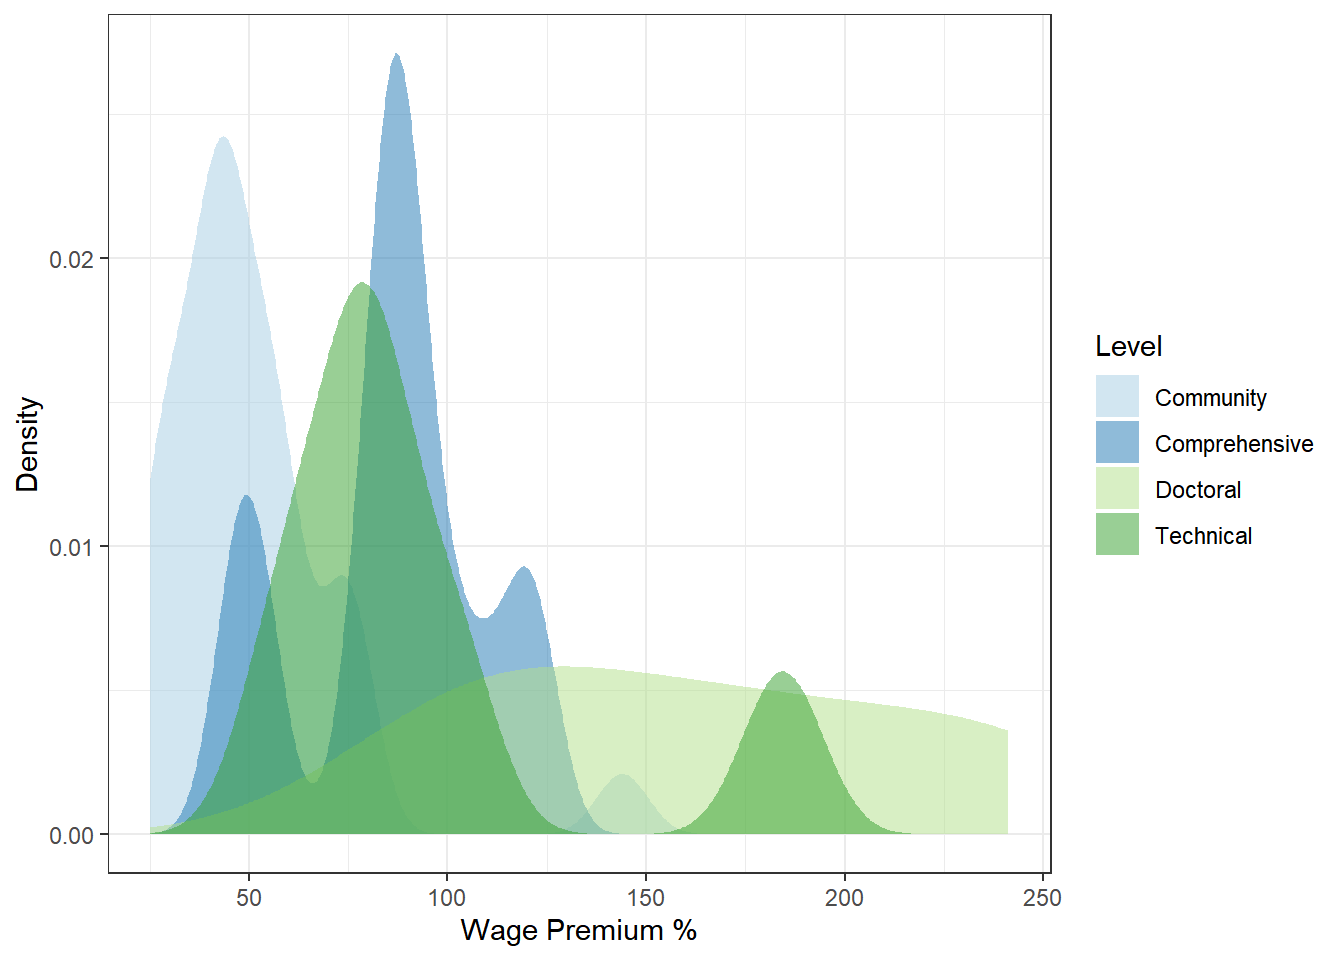
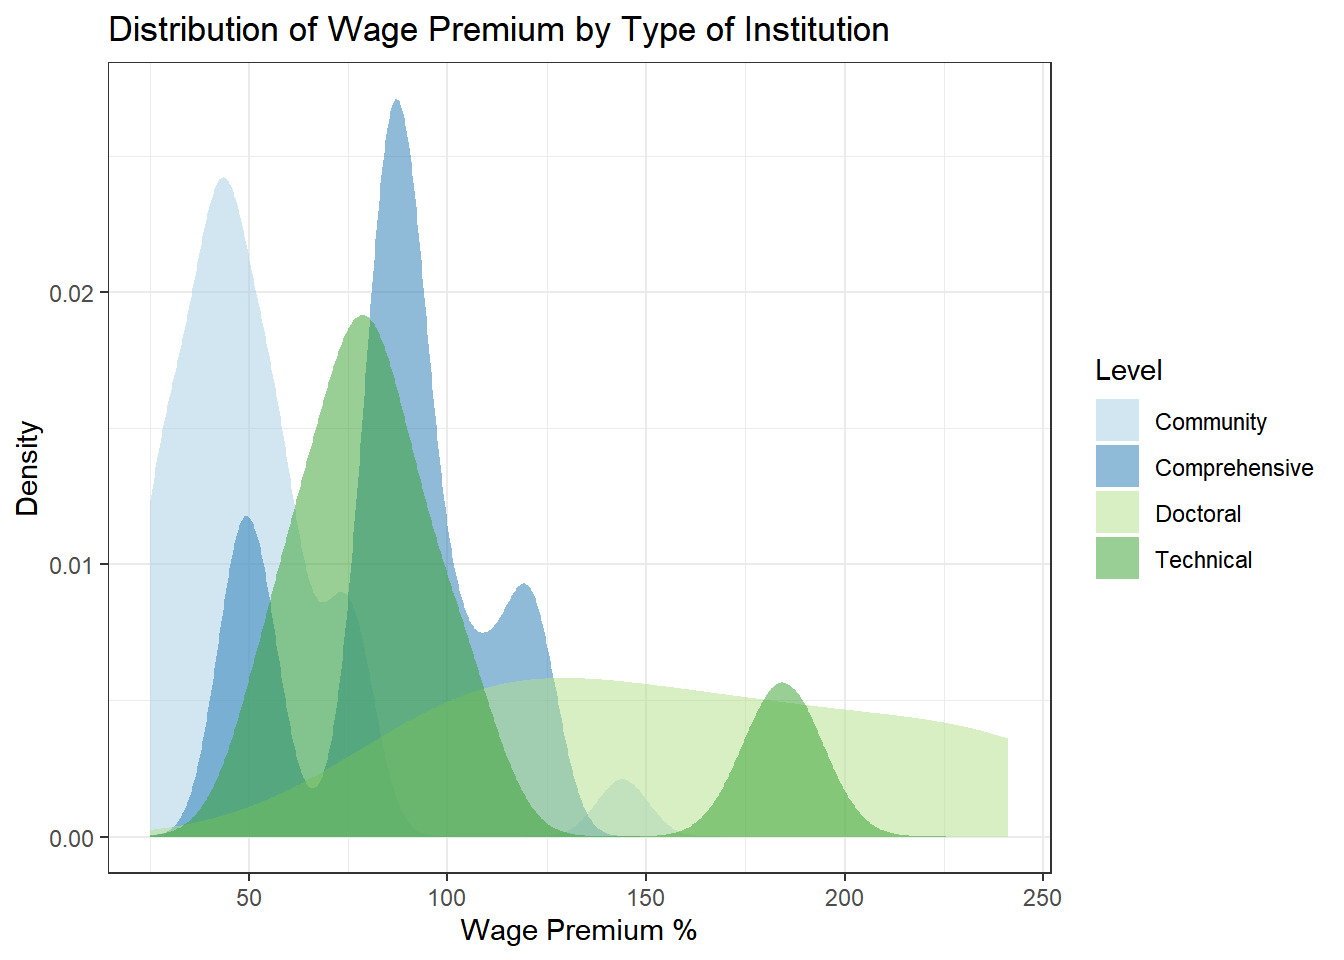
Update 6pm 12/4

diff --git a/docs/index.html b/docs/index.html
@@ -393,7 +393,9 @@ library(rgeos)
 library(ggmap)
 library(plotly)
 
-census_api_key(&quot;7912510ff91a51de560cf1e9160860875f062880&quot;)</code></pre>
+census_api_key(&quot;7912510ff91a51de560cf1e9160860875f062880&quot;)
+Sys.setenv(&quot;plotly_username&quot; = &quot;moiraone&quot;)
+Sys.setenv(&quot;plotly_api_key&quot; = &quot;••••••••••&quot;)</code></pre>
 <pre class="r"><code>#load new york counties from tigris
 ny &lt;- counties(&quot;NY&quot;)
 ny &lt;- counties(&quot;NY&quot;, cb = TRUE, resolution = &quot;5m&quot;)
@@ -414,9 +416,7 @@ ny_regions_dissolved &lt;-
     group_by(Region) %&gt;%
   summarise(status = &#39;dissolved&#39;)
 
-plot(ny_regions_dissolved)</code></pre>
-<p><img src="index_files/figure-html/map-1.png" width="672" /></p>
-<pre class="r"><code>#load school locations
+#load school locations
 schools &lt;- read_csv(&quot;SUNY_locations_and_student_counts.csv&quot;)
 #join school locations to ny regions
 schools2 &lt;- merge(ny_regions_dissolved, schools, by = &quot;Region&quot;)
@@ -431,7 +431,7 @@ ggplot() +
   theme(axis.title.x = element_blank(),
            axis.title.y = element_blank()
   )</code></pre>
-<p><img src="index_files/figure-html/map-2.png" width="672" /></p>
+<p><img src="index_files/figure-html/map-1.png" width="672" /></p>
 </div>
 <div id="methods-and-materials" class="section level2">
 <h2>Methods and Materials</h2>
@@ -522,21 +522,35 @@ ggplot(grad_retention, aes(x = Region, y = Value,
 <pre class="r"><code>#load wage data
 wages &lt;- read_csv(&quot;SUNY_locations_enrollment_wages.csv&quot;)
 
-ggplot(wages, aes(x = Wages, y = Residents, col = Level))+
+p &lt;- ggplot(wages, aes(x = Wages, y = Residents, col = Level))+
   geom_point()+
   scale_fill_brewer(palette = &quot;Paired&quot;)+
   theme_bw()+
   ggtitle(&quot;Graduate Wages and New York Residency after 10 Years&quot;)+
-  labs(x = &quot;Wages 10 Years After Graduating&quot;, y = &quot;% Graduates Living in New York After 10 Years&quot;)</code></pre>
-<p><img src="index_files/figure-html/institutional%20level%20wages%20and%20retention-1.png" width="672" /> Of course, there is likely significant selection bias at work here, as students who prefer to remain close to home may opt to attend smaller local schools. However, rather than diminish SUNY’s role, such cases demonstrate the importance of providing a range of localized options to meet geographically isolated students’ needs. Higher wage premiums (versus national median wages) at all levels of education reinforce the benefits of access.</p>
+  labs(x = &quot;Wages 10 Years After Graduating&quot;, y = &quot;% Graduates Living in New York After 10 Years&quot;)
+
+#plotly
+
+ggplotly(p)</code></pre>
+<p>Of course, there is likely significant selection bias at work here, as students who prefer to remain close to home may opt to attend smaller local schools. However, rather than diminish SUNY’s role, such cases demonstrate the importance of providing a range of localized options to meet geographically isolated students’ needs. Higher wage premiums (versus national median wages) at all levels of education reinforce the benefits of access.</p>
 <pre class="r"><code>#call wage data 
 
 ggplot(schools, aes(x = Wage_premium, fill = Level))+
   geom_density(alpha = 0.5, color = F)+
   labs(x = &quot;Wage Premium %&quot;, y = &quot;Density&quot;)+
   theme_bw()+
-  scale_fill_brewer(palette = &quot;Paired&quot;)</code></pre>
+  scale_fill_brewer(palette = &quot;Paired&quot;)+
+  ggtitle(&quot;Distribution of Wage Premium by Type of Institution&quot;)</code></pre>
 <p><img src="index_files/figure-html/institutional%20level%20and%20wages-1.png" width="672" /></p>
+<pre class="r"><code>#call wage data 
+
+ggplot(schools, aes(x = Wage_premium, fill = Region))+
+  geom_density(alpha = 0.5, color = F)+
+  labs(x = &quot;Wage Premium %&quot;, y = &quot;Density&quot;)+
+  theme_bw()+
+  scale_fill_brewer(palette = &quot;Paired&quot;)+
+  ggtitle(&quot;Distribution of Wage Premium by Region&quot;)</code></pre>
+<p><img src="index_files/figure-html/institutional%20level%20and%20wages%202-1.png" width="672" /></p>
 </div>
 <div id="part-iii.-how-well-do-skills-of-local-suny-graduates-match-regional-labor-market-needs" class="section level2">
 <h2>Part III. How well do skills of local SUNY graduates match regional labor market needs?</h2>
@@ -607,19 +621,16 @@ plot + geom_line(data = NY,
   geom_line(data = USA, 
             aes(x = Year, y = bach_or_higher), 
             col = &quot;Black&quot;, linetype = &quot;dashed&quot;, size = 1)+
+  theme_bw()+
   theme(panel.grid.major = element_blank())+
   labs(x = &quot;Year&quot;, 
        y = &quot;% Population with Bachelor&#39;s or Higher&quot;, 
        title = &quot;Educational Attainment in New York State&quot;,
-       caption = &quot;Data compiled from US Census 5-year ACS Estimates&quot;
+       caption = &quot;Solid line represents New York rates; Dashed line represents US rates&quot;
          )</code></pre>
 <p><img src="index_files/figure-html/NY%20educational%20attainment-1.png" width="672" /></p>
 <pre class="r"><code>#load income data from .csv file
 regional_income &lt;- read_csv(&quot;suny_regional_income_data_tidy.csv&quot;)
-
-#View data
-View(regional_income)
-colnames(regional_income)
 
 #isolate NY and USA
 
@@ -649,6 +660,7 @@ base_plot +
   geom_line(data = USA, 
             aes(x = Year, y = Income), 
             col = &quot;Black&quot;, linetype=&quot;dashed&quot;, size = 1)+
+  theme_bw()+
   theme(panel.grid.major = element_blank())+
   labs(x = &quot;Year&quot;, 
        y = &quot;Median Income&quot;, 
